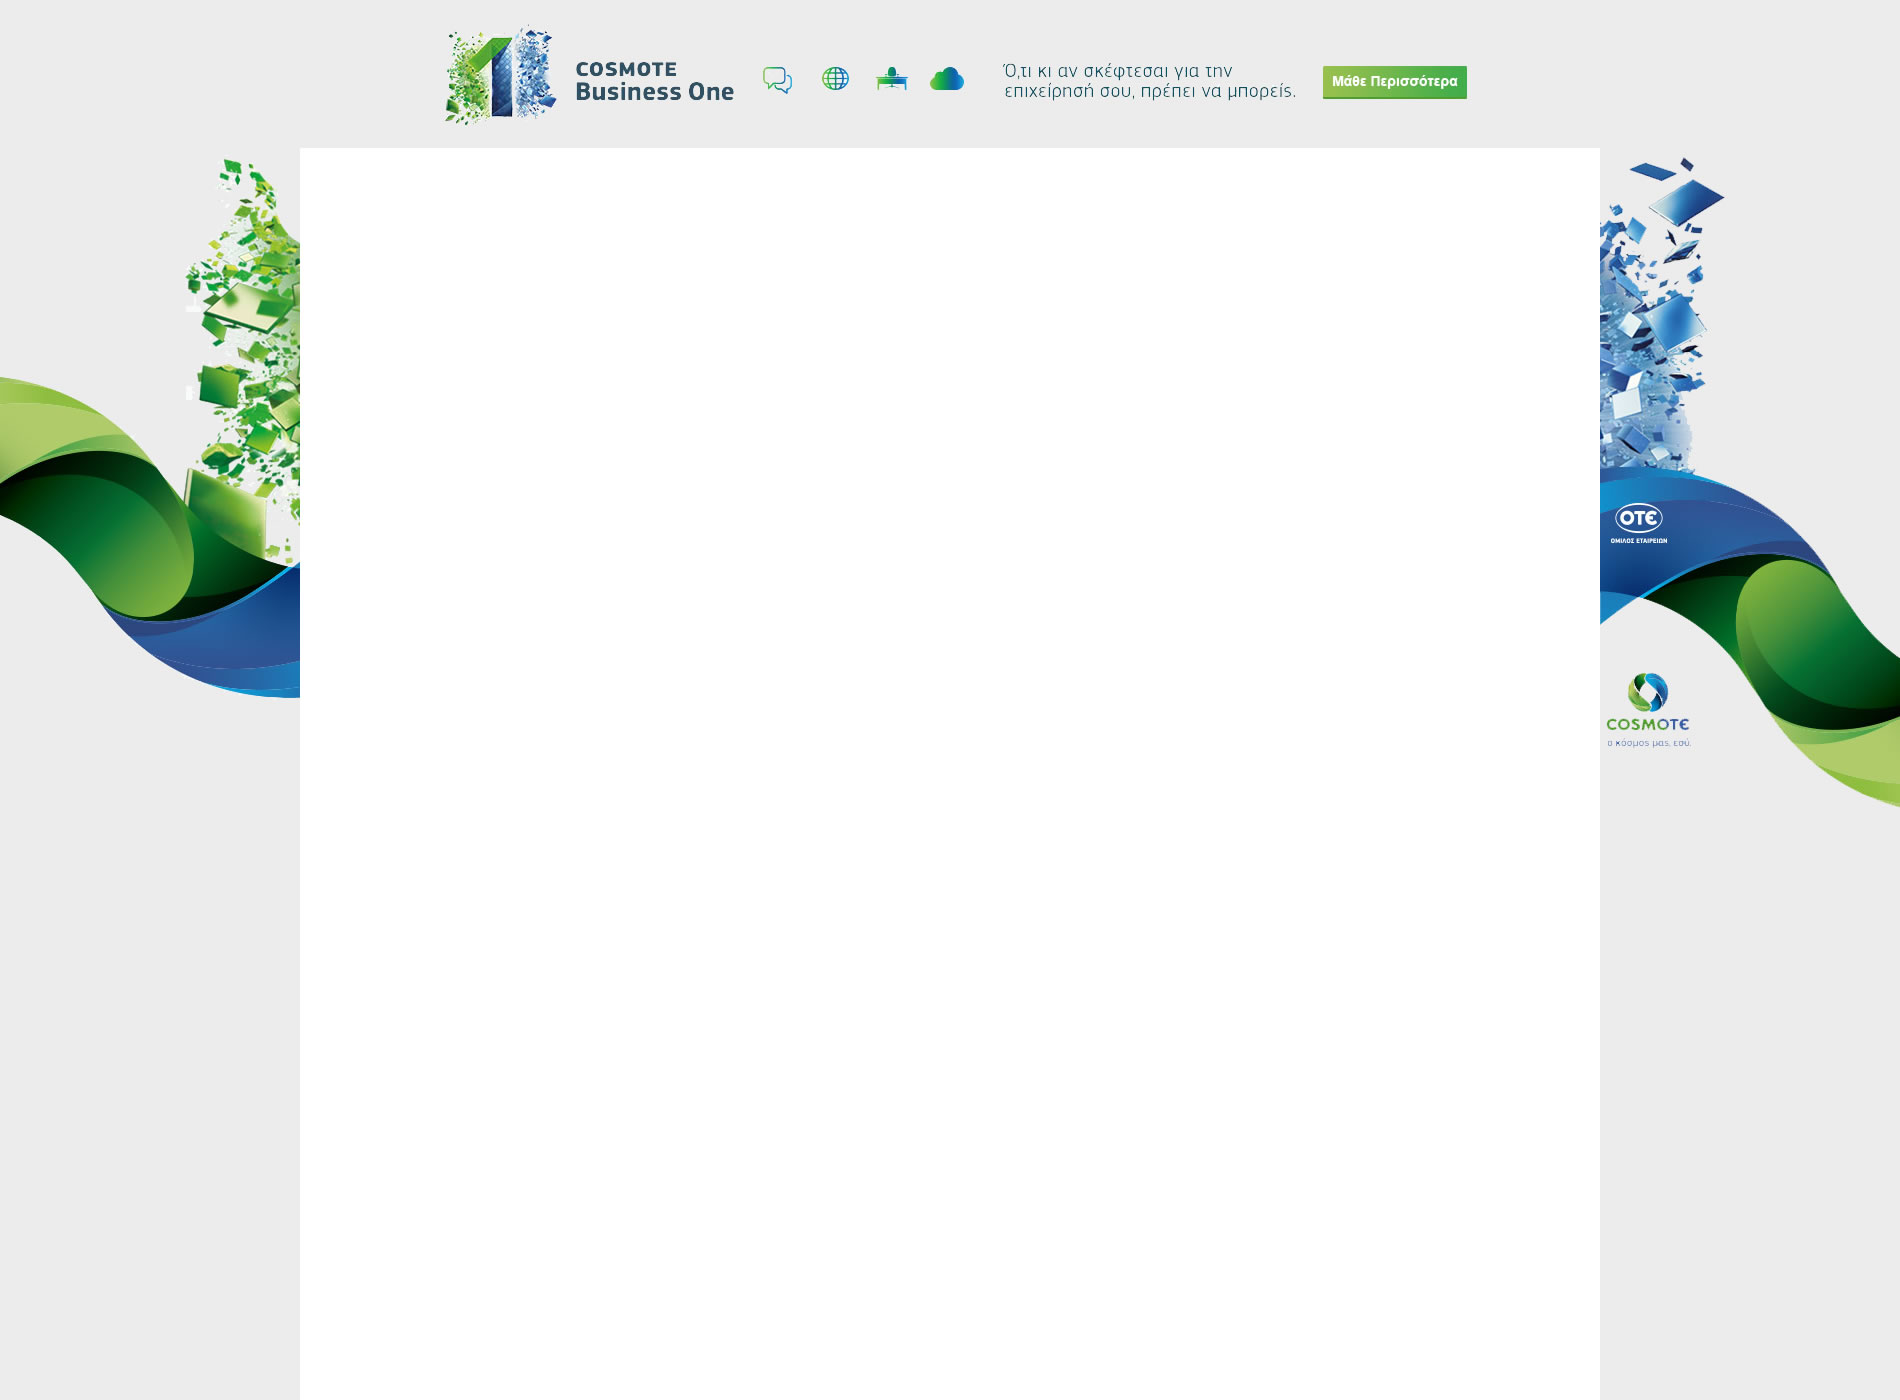
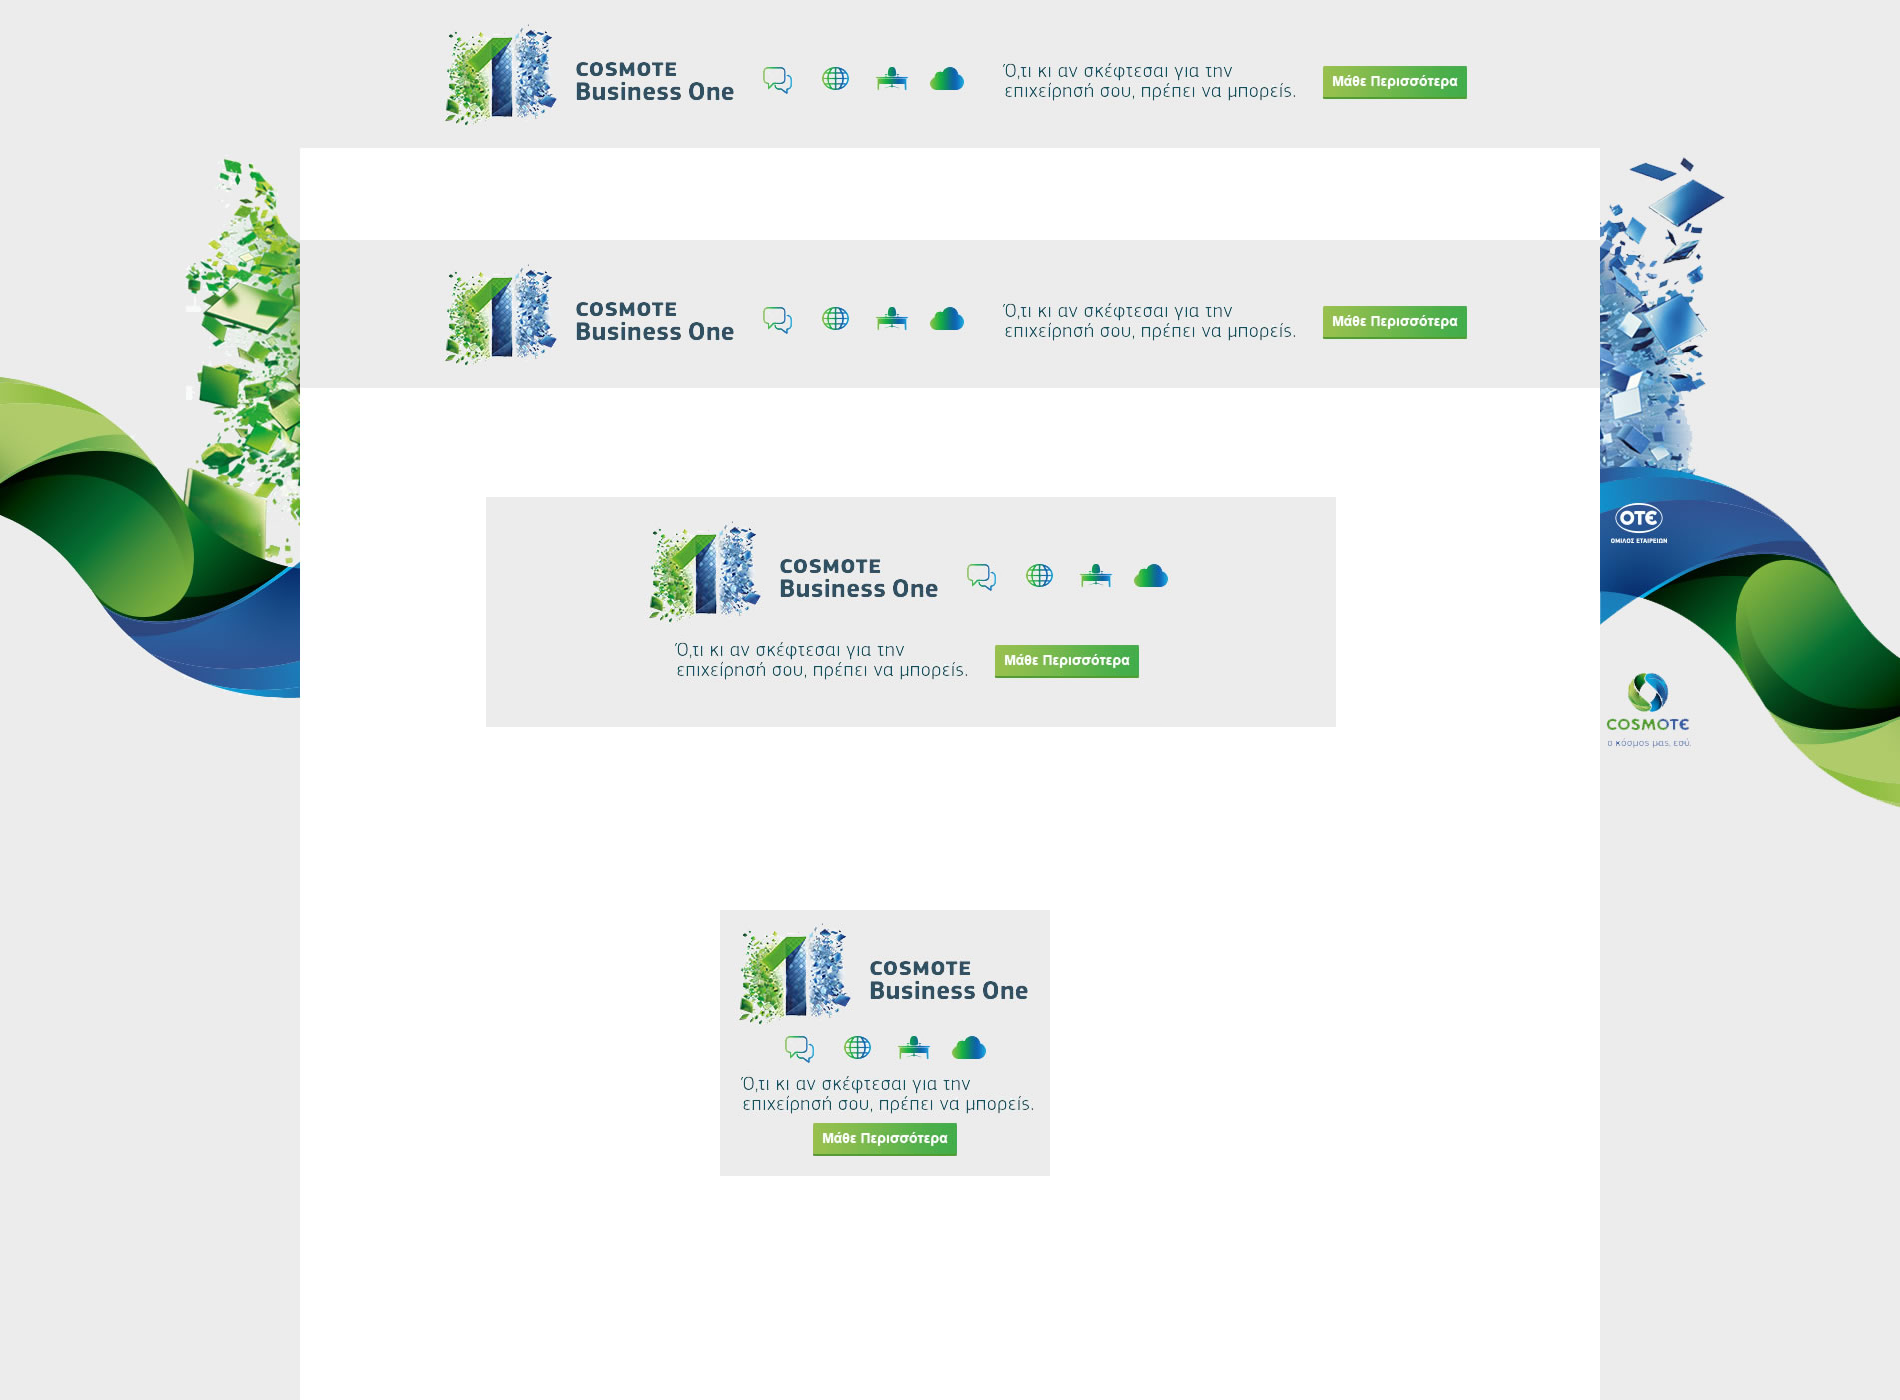
TPNS One - Completed P Advering with all sizes of the ad

Changed region(s): [[0.3726, 0.645, 0.5589, 0.8293], [0.2174, 0.1843, 0.7763, 0.2764], [0.3416, 0.3686, 0.6211, 0.4914]]

diff --git a/tpns-web-app/tpns-one/index.html b/tpns-web-app/tpns-one/index.html
@@ -206,7 +206,7 @@
                             -->
                         </div>
                         <div class="global-table-cell all-sub-sections-container">
-                        	<p class="textc"><a title="Όλες η ενότητες του TPNS One με της υποενότητες τους"><i class="icon tpns-one-add-property"></i><span class="all-sub-sections-name">Όλες</span></a></p>
+                        	<p class="textc"><a title="Όλες η ενότητες του TPNS One με της υποενότητες τους"><i class="icon tpns-one-add-property"></i><span class="all-sub-sections-name">Ενότητες</span></a></p>
                         </div>
                     </div>
                 </div>
@@ -229,7 +229,11 @@
         <div class="page-wrap content-placeholder">
         	<div class="content-inner-placeholder">
                 <div class="p-ad-middle-image">
-                    <p class="textc"><a href="https://www.cosmote.gr/one/"><img src="../in-house-adverts-module/in-house-adverts/1900x1600/cosmote-business-one/cosmote-1900x1600-middle.jpg" alt="Cosmote One advert" /></a></p>
+                    <p class="textc"><a href="https://www.cosmote.gr/one/">
+                    	<img class="p-ad-middle-large-image" src="../in-house-adverts-module/in-house-adverts/1900x1600/cosmote-business-one/cosmote-1900x1600-middle.jpg" alt="Cosmote One advert" />
+                    	<img class="p-ad-middle-medium-image" src="../in-house-adverts-module/in-house-adverts/1900x1600/cosmote-business-one/cosmote-1900x1600-medium-middle.jpg" alt="Cosmote One advert" />
+                    	<img class="p-ad-middle-small-image" src="../in-house-adverts-module/in-house-adverts/1900x1600/cosmote-business-one/cosmote-1900x1600-small-middle.jpg" alt="Cosmote One advert" />
+                    </a></p>
                 </div>
                 
                 <div class="heightful">

diff --git a/tpns-web-app/tpns-one/css/tpns-one-styles.css b/tpns-web-app/tpns-one/css/tpns-one-styles.css
@@ -391,7 +391,7 @@ header {
 	margin-right:0px;
 }
 .all-sub-sections-container {
-	width:65px;
+	width:90px;
 }
 .all-sub-sections-container [class^="tpns-one-"]:before, .all-sub-sections-container [class*=" tpns-one-"]:before {
 	font-size:120%; padding:0 5px 4px; vertical-align:text-bottom;
@@ -429,7 +429,12 @@ header {
 .p-ad-middle-image img {
 	max-width:100%; height:auto; padding:0; margin:0;
 }
-
+.p-ad-middle-large-image {
+	display:block;
+}
+.p-ad-middle-medium-image, .p-ad-middle-small-image {
+	display:none;
+}
 
 
 
@@ -460,7 +465,11 @@ header {
 
 
 
-
+@media only screen and (max-width: 1100px) {
+	.p-ad-middle-large-image, .p-ad-middle-small-image { display:none; }
+	.p-ad-middle-medium-image { display:block; }
+	.p-ad-middle-image img { width:100%; }
+}
 
 
 
@@ -487,6 +496,8 @@ header {
 @media handheld, only screen and (max-width: 420px) {
 	.header-container .title { width:140px; transition:all 0.5s linear; -o-transition:all 0.5s linear; -moz-transition:all 0.5s linear; }
 	.header-container .title h1 a img { padding:0 0 2px; transition:all 0.5s linear; -o-transition:all 0.5s linear; -moz-transition:all 0.5s linear; }
+	.p-ad-middle-large-image, .p-ad-middle-medium-image { display:none; }
+	.p-ad-middle-small-image { display:block; }
 }
 @media handheld, only screen and (max-width: 380px) {
 	.header-container .title { width:100px; transition:all 0.5s linear; -o-transition:all 0.5s linear; -moz-transition:all 0.5s linear; }
